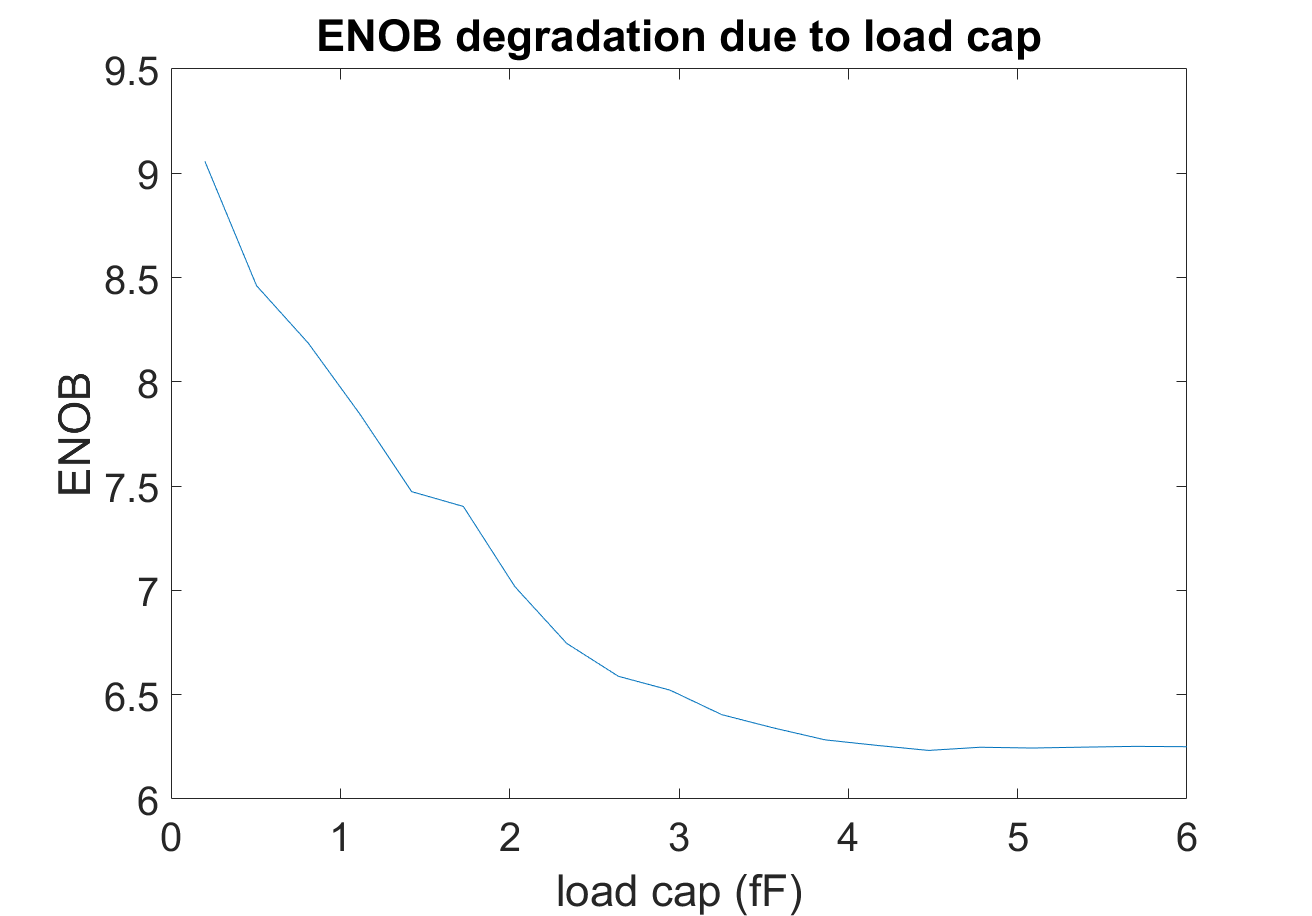
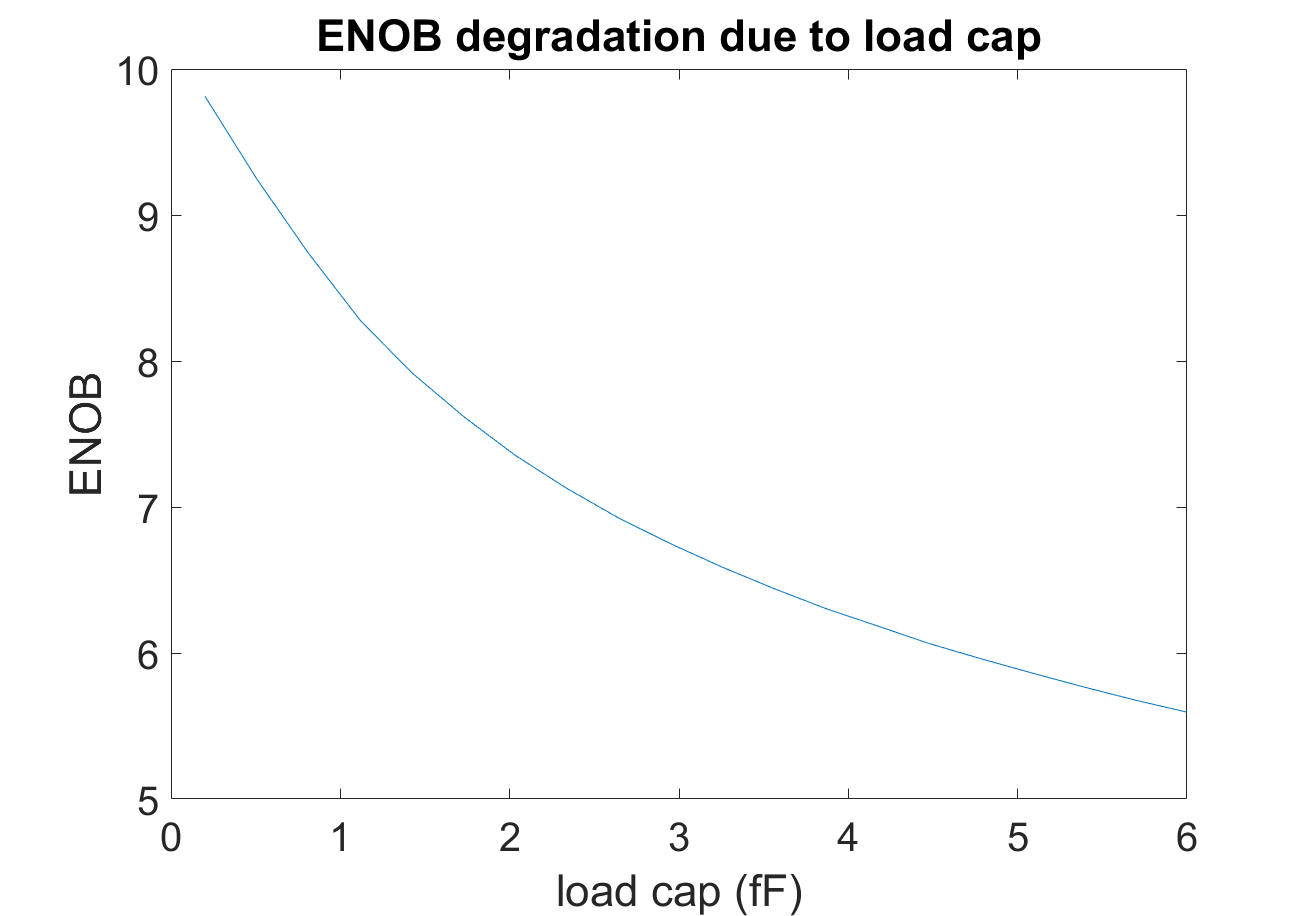
edited enob_load_cs_cs

diff --git a/matlab/enob_load_cs_cs.m b/matlab/enob_load_cs_cs.m
@@ -1,27 +1,17 @@
 
 res = 10;
-k = 7;
-dac_k = 7;
 fine_dac_type = 'CS_DAC';
-fine_mismatch = 0.008;
 coarse_dac_type = 'CS_DAC';
-coarse_mismatch = 0.008;
 tic
 samples = 1e2;
 sam_p = 20;
-% left_edge = 0.002;
-% right_edge = 0.012;
-% buff_curve = zeros(sam_p,sam_p);
-% 
-% buff_coarse_mismatch = linspace(left_edge, right_edge, sam_p);
-% buff_fine_mismatch = linspace(left_edge, right_edge, sam_p);
+
 % coarse_noise = (.3712e-03)^2;
 % fine_noise = (.1504e-3)^2;
 coarse_noise = 0;
 fine_noise = 0;
 
 %buffs for cauchy fit
-
 % c_load = linspace(10e-6, 3e-3, sam_p);
 c_load = linspace(2e-16, 6e-15, sam_p);
 % droop = linspace(10e-6, 3e-3, sam_p);
@@ -30,35 +20,24 @@ buff_a = zeros(1, sam_p);
 % buff_b = zeros(1, sam_p);
 time_elapsed = 0;
 for j = 1:sam_p
-%     for z = 1:sam_p
-        
-%         coarse_mismatch = buff_coarse_mismatch(j);
-%         fine_mismatch = buff_fine_mismatch(z);
         buf_droop = 0;
     %     buf_c_load = c_load(j);
         buf_c_load = c_load(j);
         tic
-    %     k
-        %buffx = zeros([1 samples], 'gpuArray');
         buffy = zeros([1 samples]);
     %     buffx = rand(1,samples)*right_edge + left_edge;
         parfor i = 1:samples
-
-            %coarse_mismatch = buffx(i);
-            a = ADC(res, 0, 0, coarse_dac_type, 38e-15, fine_dac_type, 2e-15, coarse_noise, fine_noise, buf_c_load, buf_droop);
+            a = ADC(res, 3, 3, coarse_dac_type, 38e-15, fine_dac_type, 2e-15, coarse_noise, fine_noise, buf_c_load, buf_droop);
             buffy(i) = a.ENOB;
         end
 
         %cauchy fit part
+        %a is the histogram mode ENOB
         [a, b] = fit_cauchy(buffy);
-        %coarse j, fine z
-        
-%         buff_curve(j,z) = a;
         buff_a(j) = a;
-    %     buff_b(j) = b;
         toc
         time_elapsed = toc + time_elapsed
-%     end
+
 end
 plot(c_load./1e-15, buff_a)
 % plot(c_load, buff_a)

diff --git a/matlab/DAC.m b/matlab/DAC.m
@@ -49,7 +49,7 @@ classdef DAC < mother_DAC
 %             obj.INL = get_INL(obj);
             %obj.abs_max_DNL = max(abs(obj.DNL));
             %obj.DNL_stdev = get_DNL_stdev()
-            obj.Epercycle = get_Epercycle(obj);
+%             obj.Epercycle = get_Epercycle(obj);
         end
         function y = eval(obj, Vin)
             N = obj.res;
